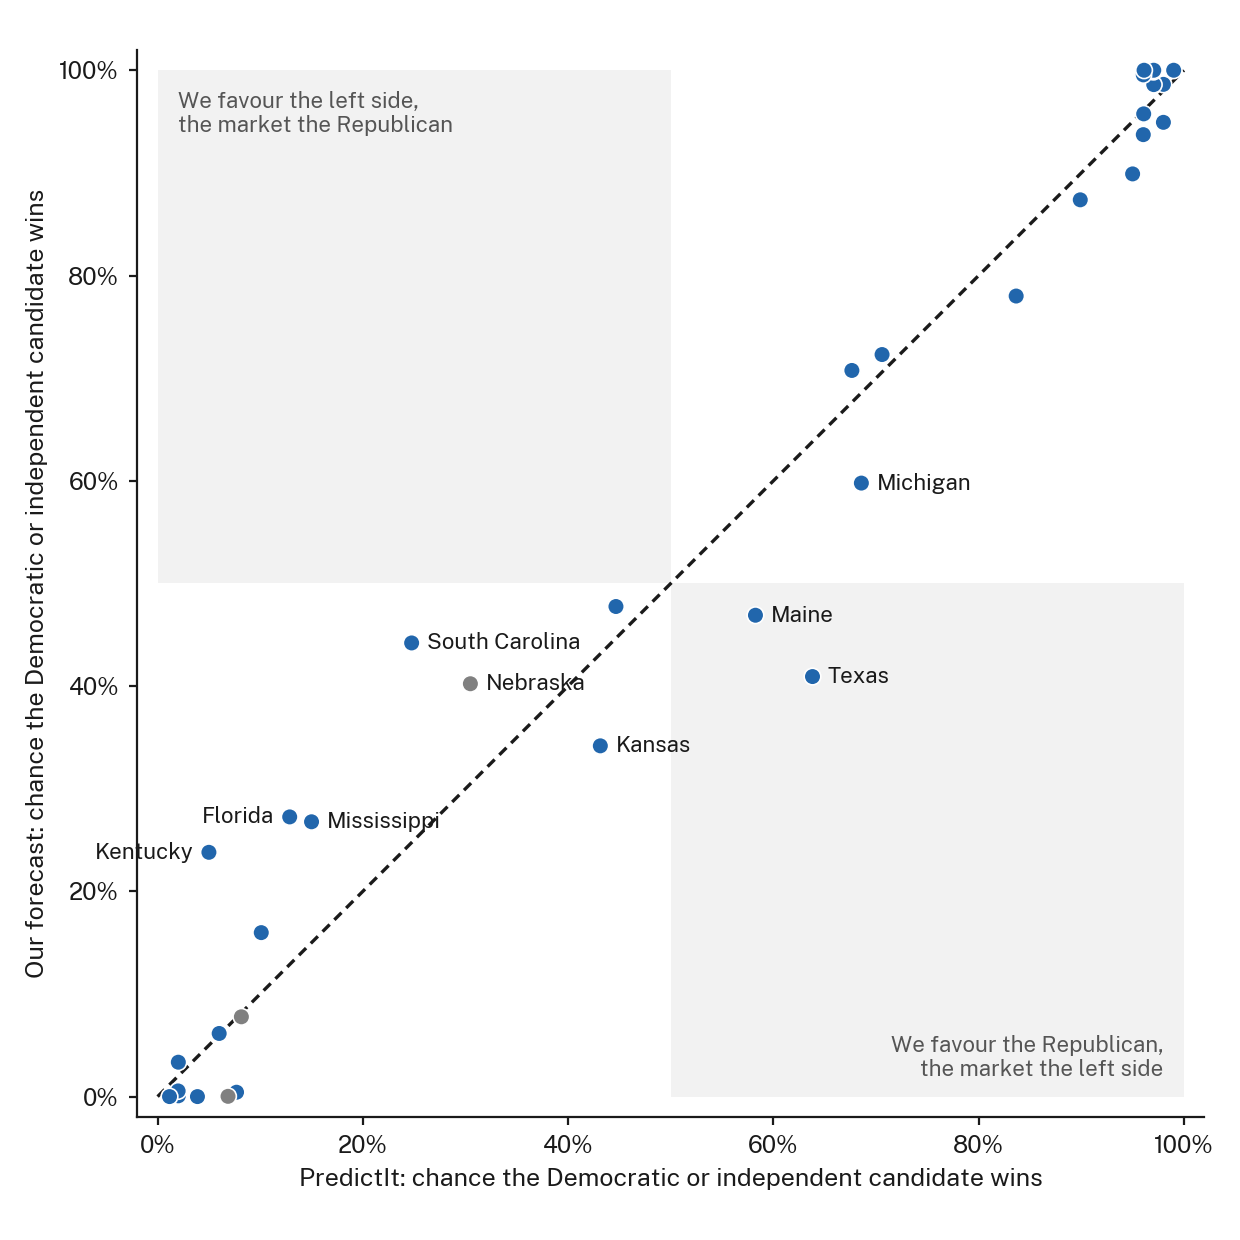
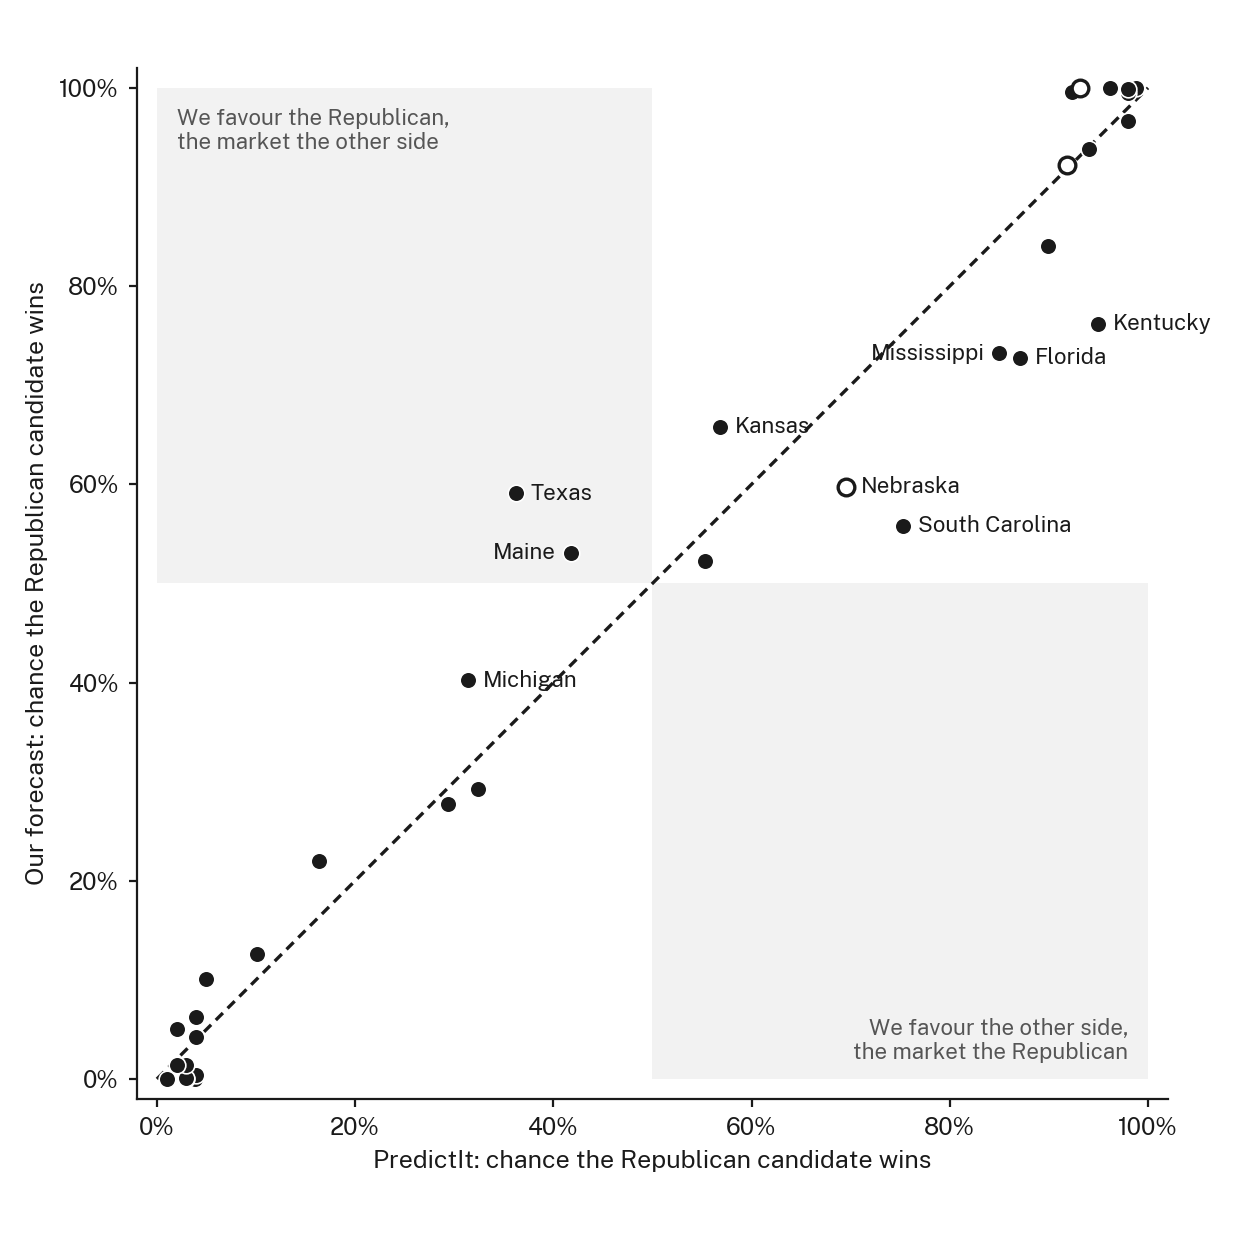
Prediction-market comparison on the Republican side
16f now reports the chance the Republican wins and Republican control,
like every other table and figure on the site, since the Republican is
the one party contesting every race. Points are one ink colour, hollow
for the three races with an independent. Evaluation and Discussion text
updated (Republican control 38 ours, 36 market, on 27 October).

Claude-Session: https://claude.ai/code/session_01R4ZRg2tBsAaXNnsz2Yo3Gq

diff --git a/scripts/16f-compare_markets.py b/scripts/16f-compare_markets.py
@@ -1,7 +1,8 @@
 #### Preamble ####
 # Purpose: Sets our forecast beside a prediction market: for each news day, our chance that the
-#          Democratic or independent candidate wins each race (four models pooled) against the
-#          PredictIt price on the same day, plus the chance of Senate control. Following Wang,
+#          Republican candidate wins each race (four models pooled) against the PredictIt price on
+#          the same day, plus the chance of Republican control of the Senate. The Republican side is
+#          used throughout the site because it is the one party contesting every race. Following Wang,
 #          Rothschild, Goel and Gelman (2015), who compared their state forecasts with Betfair and
 #          Intrade because there is no ground truth before the election.
 # Author: Kexin (Coco) Liu
@@ -15,7 +16,8 @@
 #
 # HOW a price becomes a probability: a PredictIt contract pays $1 if it comes true, so its price is
 #   roughly the market's probability. The prices of the two sides add up to a little more than 1
-#   (the market's margin), so the left side's price is divided by the sum of the two sides' prices.
+#   (the market's margin), so the Republican side's price is divided by the sum of the two sides'
+#   prices.
 #   Contracts for anyone else (a third candidate) are left out, as in our two-sided forecast.
 # The market is not ground truth and not independent of the polls, which traders also read; it is
 #   a forecast that combines the polls with other information through trading.
@@ -70,7 +72,7 @@ def side(state, name):
 
 prices["side"] = [side(s, c) for s, c in zip(prices["state"], prices["contract_name"])]
 two = prices[prices["side"] != "other"].pivot_table(index=["state", "date"], columns="side", values="close", aggfunc="sum")
-two["market_p_left"] = two["left"] / (two["left"] + two["rep"])
+two["market_p_rep"] = two["rep"] / (two["left"] + two["rep"])
 two = two.reset_index()
 
 #### Our forecast for each news day ####
@@ -81,21 +83,21 @@ for run in NEWS_DAYS:
     if not path.exists() or m.empty:
         continue
     f = config.read_table(path)
-    left = f[f["party"] != "Republican"].assign(win=lambda d: d["winner"] != "Republican")
-    ours = left.groupby(["state", "model"])["win"].mean().groupby("state").mean()
-    races = m.drop(index="control", errors="ignore").join(ours.rename("ours_p_left"), how="inner")
-    races["difference"] = races["ours_p_left"] - races["market_p_left"]
-    races = races.assign(run=run).reset_index()[["run", "state", "market_p_left", "ours_p_left", "difference"]]
+    rep = f[f["party"] == "Republican"].assign(win=lambda d: d["winner"] == "Republican")
+    ours = rep.groupby(["state", "model"])["win"].mean().groupby("state").mean()
+    races = m.drop(index="control", errors="ignore").join(ours.rename("ours_p_rep"), how="inner")
+    races["difference"] = races["ours_p_rep"] - races["market_p_rep"]
+    races = races.assign(run=run).reset_index()[["run", "state", "market_p_rep", "ours_p_rep", "difference"]]
     rows.append(races)
     chamber = pd.read_csv(config.RESULTS / f"run_{run}" / "chamber_summary.csv")
-    differs = races[(races["ours_p_left"] > 0.5) != (races["market_p_left"] > 0.5)]["state"]
+    differs = races[(races["ours_p_rep"] > 0.5) != (races["market_p_rep"] > 0.5)]["state"]
     summary.append({
         "run": run, "n": len(races),
-        "corr": races["ours_p_left"].corr(races["market_p_left"]),
+        "corr": races["ours_p_rep"].corr(races["market_p_rep"]),
         "mad": races["difference"].abs().mean(),
         "differs": ", ".join(config.STATE_NAME.get(s, s) for s in differs) or "none",
-        "ours_dem_control": 1 - chamber["p_rep_control"].mean(),
-        "market_dem_control": m.loc["control", "market_p_left"] if "control" in m.index else np.nan,
+        "ours_rep_control": chamber["p_rep_control"].mean(),
+        "market_rep_control": m.loc["control", "market_p_rep"] if "control" in m.index else np.nan,
     })
 assert rows, "No news day has both a forecast and a PredictIt price yet"
 table = pd.concat(rows, ignore_index=True)
@@ -116,9 +118,9 @@ def pct(p):
 
 
 md = ["| News day | States | Correlation | Mean absolute difference (points) | Favourite differs | "
-      "Democratic control: ours / market (%) |", "|---|---:|---:|---:|---|---:|"]
+      "Republican control: ours / market (%) |", "|---|---:|---:|---:|---|---:|"]
 for s in summ.itertuples():
-    ctrl = f"{s.ours_dem_control * 100:.0f} / {s.market_dem_control * 100:.0f}" if pd.notna(s.market_dem_control) else "–"
+    ctrl = f"{s.ours_rep_control * 100:.0f} / {s.market_rep_control * 100:.0f}" if pd.notna(s.market_rep_control) else "–"
     md.append(f"| {day(s.run)} | {s.n} | {s.corr:.2f} | {s.mad * 100:.1f} | {s.differs} | {ctrl} |")
 latest = summ["run"].iloc[-1]
 t = table[table["run"] == latest].sort_values("difference")
@@ -126,7 +128,7 @@ md += ["", "<details>", f"<summary>Table view: every race, {day(latest)}</summar
        "| State | Market (%) | Ours (%) | Ours minus market (points) |", "|---|---:|---:|---:|"]
 for r in t.itertuples():
     name = config.STATE_NAME.get(r.state, r.state) + (" (I)" if nominees.loc[r.state, "left_party"] == "Independent" else "")
-    md.append(f"| {name} | {pct(r.market_p_left)} | {pct(r.ours_p_left)} | {signed(r.difference)} |")
+    md.append(f"| {name} | {pct(r.market_p_rep)} | {pct(r.ours_p_rep)} | {signed(r.difference)} |")
 md += ["", "</details>"]
 (OUT / "markets.md").write_text("\n".join(md) + "\n")
 
@@ -135,12 +137,16 @@ config.use_site_style()
 fig, ax = plt.subplots(figsize=(6.2, 6.2))
 ax.fill_between([0, 0.5], 0.5, 1, color="#f2f2f2", lw=0, zorder=0)
 ax.fill_between([0.5, 1], 0, 0.5, color="#f2f2f2", lw=0, zorder=0)
-ax.text(0.02, 0.98, "We favour the left side,\nthe market the Republican", va="top", fontsize=8, color=config.MUTED)
-ax.text(0.98, 0.02, "We favour the Republican,\nthe market the left side", ha="right", fontsize=8, color=config.MUTED)
+ax.text(0.02, 0.98, "We favour the Republican,\nthe market the other side", va="top", fontsize=8, color=config.MUTED)
+ax.text(0.98, 0.02, "We favour the other side,\nthe market the Republican", ha="right", fontsize=8, color=config.MUTED)
 ax.plot([0, 1], [0, 1], color=config.INK, lw=1.2, ls=(0, (3, 2)), zorder=1)
-col = [config.PARTY_COLOURS["Independent"] if nominees.loc[s, "left_party"] == "Independent"
-       else config.PARTY_COLOURS["Democratic"] for s in t["state"]]
-ax.scatter(t["market_p_left"], t["ours_p_left"], s=36, color=col, edgecolor="white", lw=0.6, zorder=3)
+# One ink colour, since a point's position is already the Republican's chance; hollow points mark
+# the three races with an independent instead of a Democrat.
+ind = t["state"].map(nominees["left_party"]).eq("Independent").to_numpy()
+ax.scatter(t["market_p_rep"][~ind], t["ours_p_rep"][~ind], s=36, color=config.INK, edgecolor="white",
+           lw=0.6, zorder=3)
+ax.scatter(t["market_p_rep"][ind], t["ours_p_rep"][ind], s=36, facecolor="white", edgecolor=config.INK,
+           lw=1.2, zorder=3)
 placed = []                               # (x, y, side) of labels so far, to keep them apart
 
 
@@ -149,9 +155,9 @@ def clash(x, y, ha):
     return any(abs(y - py) < 0.03 and left < px2 and px1 < left + 0.2 for px1, px2, py in placed)
 
 
-pts = list(zip(t["market_p_left"], t["ours_p_left"]))
-for r in t[t["difference"].abs() >= LABEL_GAP].sort_values("ours_p_left", ascending=False).itertuples():
-    px, py = r.market_p_left, r.ours_p_left
+pts = list(zip(t["market_p_rep"], t["ours_p_rep"]))
+for r in t[t["difference"].abs() >= LABEL_GAP].sort_values("ours_p_rep", ascending=False).itertuples():
+    px, py = r.market_p_rep, r.ours_p_rep
     for ha, x in (("left", px + 0.015), ("right", px - 0.015)):
         near_point = any(abs(py - qy) < 0.03 and (0 < qx - px < 0.2 if ha == "left" else 0 < px - qx < 0.2)
                          for qx, qy in pts)
@@ -170,8 +176,8 @@ ax.set_xlim(-0.02, 1.02)
 ax.set_ylim(-0.02, 1.02)
 ax.set_xticks(np.linspace(0, 1, 6), [f"{v:.0%}" for v in np.linspace(0, 1, 6)])
 ax.set_yticks(np.linspace(0, 1, 6), [f"{v:.0%}" for v in np.linspace(0, 1, 6)])
-ax.set_xlabel("PredictIt: chance the Democratic or independent candidate wins")
-ax.set_ylabel("Our forecast: chance the Democratic or independent candidate wins")
+ax.set_xlabel("PredictIt: chance the Republican candidate wins")
+ax.set_ylabel("Our forecast: chance the Republican candidate wins")
 ax.set_aspect("equal")
 fig.tight_layout()
 fig_dir = Path("figures") / f"run_{latest}"
@@ -180,7 +186,7 @@ fig.savefig(fig_dir / "market_comparison.png")
 plt.close(fig)
 
 #### Checks ####
-assert table[["market_p_left", "ours_p_left"]].stack().between(0, 1).all()
+assert table[["market_p_rep", "ours_p_rep"]].stack().between(0, 1).all()
 assert table.groupby("run")["state"].nunique().le(len(nominees)).all()
 print("\n".join(md))
 print(f"Saved {OUT / 'markets.md'} and {fig_dir / 'market_comparison.png'}")

diff --git a/data/03-results/comparison/markets.md b/data/03-results/comparison/markets.md
@@ -1,46 +1,46 @@
-| News day | States | Correlation | Mean absolute difference (points) | Favourite differs | Democratic control: ours / market (%) |
+| News day | States | Correlation | Mean absolute difference (points) | Favourite differs | Republican control: ours / market (%) |
 |---|---:|---:|---:|---|---:|
-| 27 October | 35 | 0.98 | 5.7 | Maine, Texas | 62 / 64 |
+| 27 October | 35 | 0.98 | 5.7 | Maine, Texas | 38 / 36 |
 
 <details>
 <summary>Table view: every race, 27 October</summary>
 
 | State | Market (%) | Ours (%) | Ours minus market (points) |
 |---|---:|---:|---:|
-| Texas | 64 | 41 | −23 |
-| Maine | 58 | 47 | −11 |
-| Kansas | 43 | 34 | −9 |
-| Michigan | 69 | 60 | −9 |
-| Alabama | 8 | <1 | −7 |
-| Idaho (I) | 7 | <1 | −7 |
-| Minnesota | 84 | 78 | −6 |
-| Georgia | 95 | 90 | −5 |
-| Wyoming | 4 | <1 | −4 |
-| Virginia | 98 | 95 | −3 |
-| New Hampshire | 90 | 87 | −3 |
-| North Carolina | 96 | 94 | −2 |
-| West Virginia | 2 | <1 | −2 |
-| Oklahoma | 2 | 1 | −1 |
-| Montana | 1 | <1 | −1 |
-| South Dakota (I) | 8 | 8 | 0 |
-| Illinois | 96 | 96 | 0 |
-| Arkansas | 6 | 6 | 0 |
-| Colorado | 98 | 99 | +1 |
-| Delaware | 99 | >99 | +1 |
-| Tennessee | 2 | 3 | +1 |
-| New Jersey | 97 | 99 | +2 |
-| Alaska | 71 | 72 | +2 |
-| Oregon | 97 | >99 | +3 |
-| Massachusetts | 97 | >99 | +3 |
-| Iowa | 45 | 48 | +3 |
-| Ohio | 68 | 71 | +3 |
-| New Mexico | 96 | >99 | +4 |
-| Rhode Island | 96 | >99 | +4 |
-| Louisiana | 10 | 16 | +6 |
-| Nebraska (I) | 30 | 40 | +10 |
-| Mississippi | 15 | 27 | +12 |
-| Florida | 13 | 27 | +14 |
-| Kentucky | 5 | 24 | +19 |
-| South Carolina | 25 | 44 | +19 |
+| South Carolina | 75 | 56 | −19 |
+| Kentucky | 95 | 76 | −19 |
+| Florida | 87 | 73 | −14 |
+| Mississippi | 85 | 73 | −12 |
+| Nebraska (I) | 70 | 60 | −10 |
+| Louisiana | 90 | 84 | −6 |
+| Rhode Island | 4 | <1 | −4 |
+| New Mexico | 4 | <1 | −4 |
+| Ohio | 32 | 29 | −3 |
+| Iowa | 55 | 52 | −3 |
+| Massachusetts | 3 | <1 | −3 |
+| Oregon | 3 | <1 | −3 |
+| Alaska | 29 | 28 | −2 |
+| New Jersey | 3 | 1 | −2 |
+| Tennessee | 98 | 97 | −1 |
+| Delaware | 1 | <1 | −1 |
+| Colorado | 2 | 1 | −1 |
+| Arkansas | 94 | 94 | 0 |
+| Illinois | 4 | 4 | 0 |
+| South Dakota (I) | 92 | 92 | 0 |
+| Montana | 99 | >99 | +1 |
+| Oklahoma | 98 | 99 | +1 |
+| West Virginia | 98 | >99 | +2 |
+| North Carolina | 4 | 6 | +2 |
+| New Hampshire | 10 | 13 | +3 |
+| Virginia | 2 | 5 | +3 |
+| Wyoming | 96 | >99 | +4 |
+| Georgia | 5 | 10 | +5 |
+| Minnesota | 16 | 22 | +6 |
+| Idaho (I) | 93 | >99 | +7 |
+| Alabama | 92 | >99 | +7 |
+| Michigan | 31 | 40 | +9 |
+| Kansas | 57 | 66 | +9 |
+| Maine | 42 | 53 | +11 |
+| Texas | 36 | 59 | +23 |
 
 </details>
